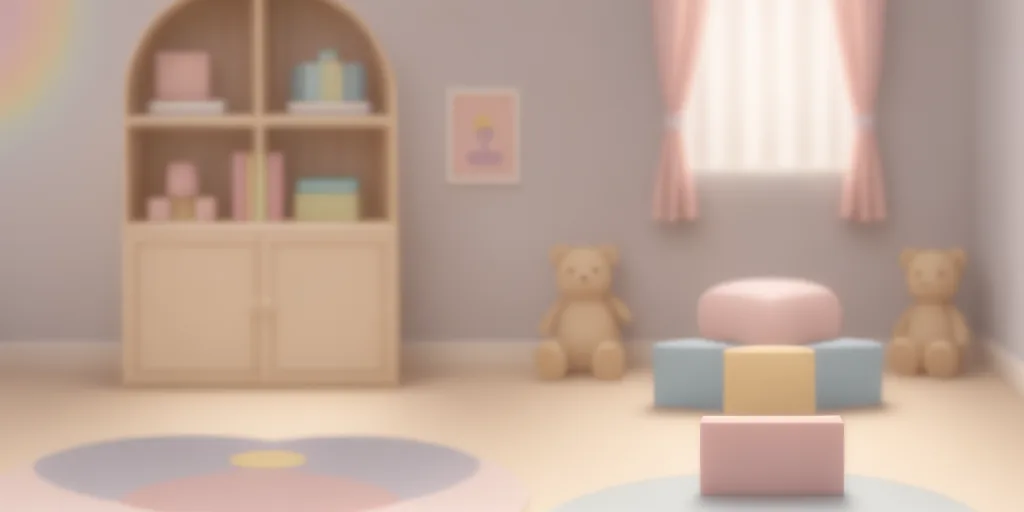
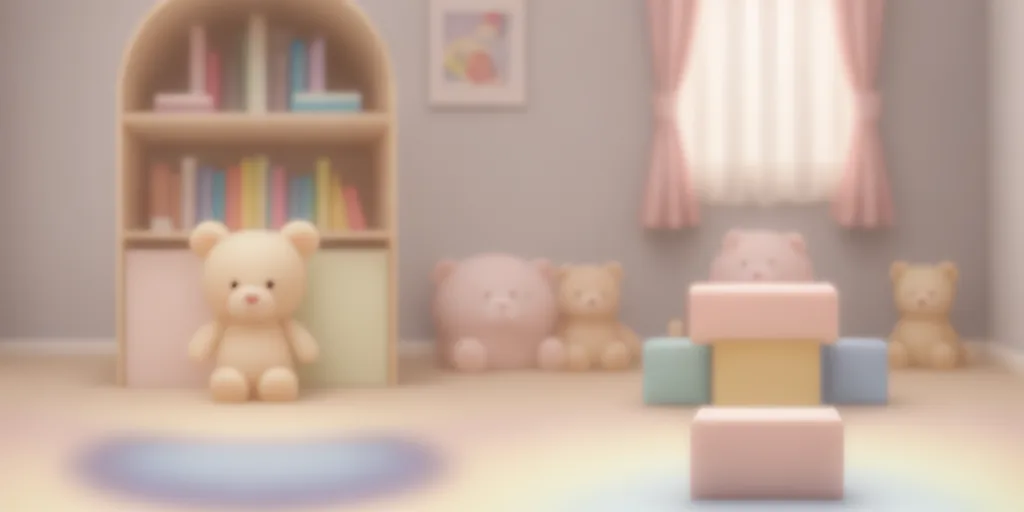
LuminaPets: el Jardín Hada, el Cielo de Nubes y la Cueva de Cristal
Se suman los tres lugares panorámicos de los biomas (generados con el
mismo modelo, con el piso a la misma altura) y una habitación más
nítida. En modo automático cada criatura pasea en su casa. Cada lugar
tiene su ambiente: pétalos y pasto cercano en el jardín, nubes que pasan
en el cielo, destellos y cristales en primer plano en la cueva.

Claude-Session: https://claude.ai/code/session_0196B2rs1uN374FLGHNEBAbE

diff --git a/public/sw.js b/public/sw.js
@@ -1,6 +1,6 @@
 /* The Final Test · service worker: la app entera queda en caché y funciona sin conexión */
-var CACHE="tft-v65";
-var FILES=["./","./index.html","./axioma.css","./app.js","./account.js","./rapidos-motor.js","./rapidos.js","./maraton-motor.js","./granja-motor.js","./granja-ui.js","./granja-grande-motor.js","./granja-grande-ui.js","./ciudad-motor.js","./ciudad-ui.js","./ciudad-3d.js","./aprender.js","./mate-motor.js","./mate-dibujos.js","./mate-ui.js","./ingles-motor.js","./ingles-ui.js","./ciencias-datos.js","./ciencias-motor.js","./ciencias-dibujos.js","./ciencias-ui.js","./lumina-motor.js","./lumina-dibujos.js","./lumina-vivo.js","./lumina-ui.js","./lumina/lila.jpg","./lumina/lila-sola.webp","./lumina/cuarto.jpg","./lumina/lugares/cuarto.webp","./lumina/criaturas/mirlu.webp","./lumina/criaturas/petala.webp","./lumina/criaturas/astro.webp","./lumina/criaturas/chispa.webp","./lumina/criaturas/nube.webp","./lumina/criaturas/florita.webp","./lumina/criaturas/luzmi.webp","./lumina/criaturas/brasita.webp","./lumina/criaturas/iris.webp","./lumina/criaturas/rocio.webp","./lumina/criaturas/cometa.webp","./lumina/criaturas/rubi.webp","./lumina/criaturas/algodon.webp","./lumina/criaturas/miel.webp","./lumina/criaturas/polar.webp","./lumina/criaturas/cuarzo.webp","./lumina/alas-hada.webp","./lumina/alas-dragon.webp","./vendor/three.min.js","./maraton.js","./concursos.js","./banco-formato.js","./xlsx.js","./vendor/qrcode.js","./qr.js","./invitado.js","./marca.js","./registro.js","./aula.js","./amigos.js","./inicio.js","./fiesta.js","./fiesta/palabras.js","./fiesta/tabu.js","./fiesta/preguntas.js","./fiesta/pruebas.js","./areas.js","./sala.js","./juegos/nucleo.js","./juegos/gomoku.js","./juegos/hex.js","./juegos/cuantico.js","./juegos/dudo.js","./juegos/sexta.js","./juegos/verdades.js","./juegos/trivia.js","./juegos/hype.js","./juegos/carrera.js","./juegos/caballos.js","./juegos/caballos-ui.js","./juegos/sorteo.js","./juegos/bingo.js","./juegos/bingo-ui.js","./juegos/subasta.js","./juegos/paranoia.js","./juegos/yonunca.js","./juegos/estrategia-ui.js","./juegos/grupo-ui.js","./juegos/vivo-ui.js","./juegos/especial-ui.js","./juegos/adultos-ui.js","./terminos.html","./privacidad.html","./legal.css","./legal.js","./retos.js","./tutorial.js","./sudoku.js","./manifest.json","./icon.svg","./icon-192.png","./icon-512.png","./icon-maskable-512.png","./apple-touch-icon.png","./como-jugar.svg"];
+var CACHE="tft-v66";
+var FILES=["./","./index.html","./axioma.css","./app.js","./account.js","./rapidos-motor.js","./rapidos.js","./maraton-motor.js","./granja-motor.js","./granja-ui.js","./granja-grande-motor.js","./granja-grande-ui.js","./ciudad-motor.js","./ciudad-ui.js","./ciudad-3d.js","./aprender.js","./mate-motor.js","./mate-dibujos.js","./mate-ui.js","./ingles-motor.js","./ingles-ui.js","./ciencias-datos.js","./ciencias-motor.js","./ciencias-dibujos.js","./ciencias-ui.js","./lumina-motor.js","./lumina-dibujos.js","./lumina-vivo.js","./lumina-ui.js","./lumina/lila.jpg","./lumina/lila-sola.webp","./lumina/cuarto.jpg","./lumina/lugares/cuarto.webp","./lumina/lugares/jardin.webp","./lumina/lugares/nubes.webp","./lumina/lugares/cristal.webp","./lumina/criaturas/mirlu.webp","./lumina/criaturas/petala.webp","./lumina/criaturas/astro.webp","./lumina/criaturas/chispa.webp","./lumina/criaturas/nube.webp","./lumina/criaturas/florita.webp","./lumina/criaturas/luzmi.webp","./lumina/criaturas/brasita.webp","./lumina/criaturas/iris.webp","./lumina/criaturas/rocio.webp","./lumina/criaturas/cometa.webp","./lumina/criaturas/rubi.webp","./lumina/criaturas/algodon.webp","./lumina/criaturas/miel.webp","./lumina/criaturas/polar.webp","./lumina/criaturas/cuarzo.webp","./lumina/alas-hada.webp","./lumina/alas-dragon.webp","./vendor/three.min.js","./maraton.js","./concursos.js","./banco-formato.js","./xlsx.js","./vendor/qrcode.js","./qr.js","./invitado.js","./marca.js","./registro.js","./aula.js","./amigos.js","./inicio.js","./fiesta.js","./fiesta/palabras.js","./fiesta/tabu.js","./fiesta/preguntas.js","./fiesta/pruebas.js","./areas.js","./sala.js","./juegos/nucleo.js","./juegos/gomoku.js","./juegos/hex.js","./juegos/cuantico.js","./juegos/dudo.js","./juegos/sexta.js","./juegos/verdades.js","./juegos/trivia.js","./juegos/hype.js","./juegos/carrera.js","./juegos/caballos.js","./juegos/caballos-ui.js","./juegos/sorteo.js","./juegos/bingo.js","./juegos/bingo-ui.js","./juegos/subasta.js","./juegos/paranoia.js","./juegos/yonunca.js","./juegos/estrategia-ui.js","./juegos/grupo-ui.js","./juegos/vivo-ui.js","./juegos/especial-ui.js","./juegos/adultos-ui.js","./terminos.html","./privacidad.html","./legal.css","./legal.js","./retos.js","./tutorial.js","./sudoku.js","./manifest.json","./icon.svg","./icon-192.png","./icon-512.png","./icon-maskable-512.png","./apple-touch-icon.png","./como-jugar.svg"];
 
 self.addEventListener("install",function(e){
   e.waitUntil(caches.open(CACHE).then(function(c){return c.addAll(FILES);}).then(function(){return self.skipWaiting();}));

diff --git a/public/lumina-motor.js b/public/lumina-motor.js
@@ -38,8 +38,6 @@ var RAREZA=["Común","Especial","Legendaria"];
 /* los lugares donde pasea la mascota: panoramas anchos (2:1) con el piso a la misma altura */
 var LUGARES=[{id:"cuarto",nom:"Mi habitación",ico:"🏠",img:"lumina/lugares/cuarto.webp"},{id:"jardin",nom:"Jardín Hada",ico:"🌸",img:"lumina/lugares/jardin.webp"},
   {id:"nubes",nom:"Cielo de Nubes",ico:"☁",img:"lumina/lugares/nubes.webp"},{id:"cristal",nom:"Cueva de Cristal",ico:"💎",img:"lumina/lugares/cristal.webp"}];
-/* los que todavía no tienen su imagen no se ofrecen */
-var LISTOS={cuarto:1}; LUGARES=LUGARES.filter(function(l){return LISTOS[l.id];});
 var LUGAR={}; LUGARES.forEach(function(l){LUGAR[l.id]=l;});
 /* «auto»: cada criatura en su casa (Lila en su habitación, las demás en su bioma) */
 function lugarDe(g,c){var l=g.lugar&&g.lugar!=="auto"?g.lugar:(c&&c.id!=="lila"?c.bioma:"cuarto"); return LUGAR[l]||LUGAR.cuarto;}
